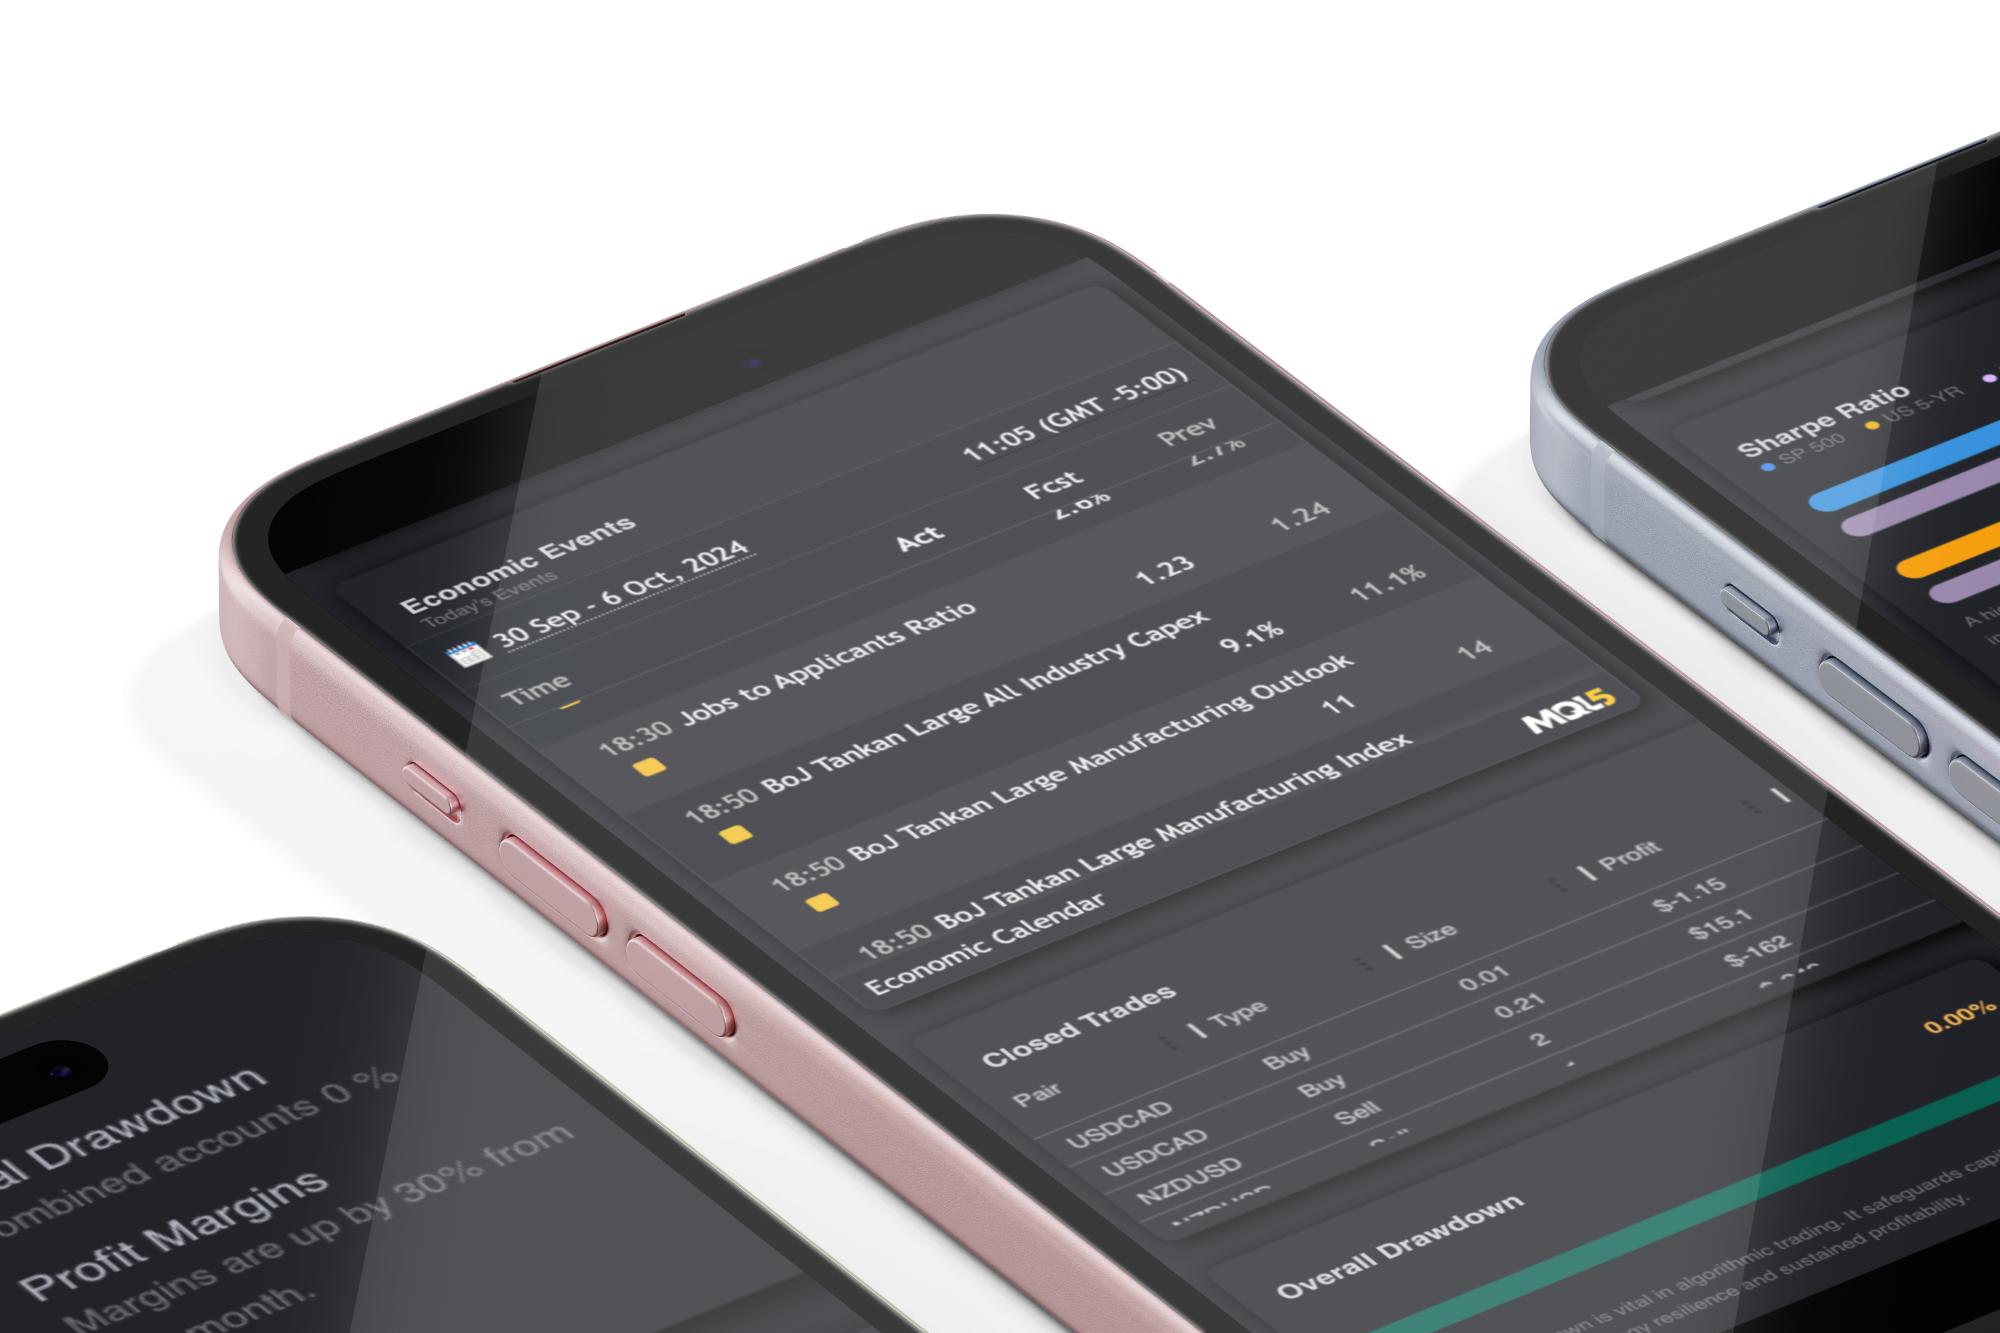
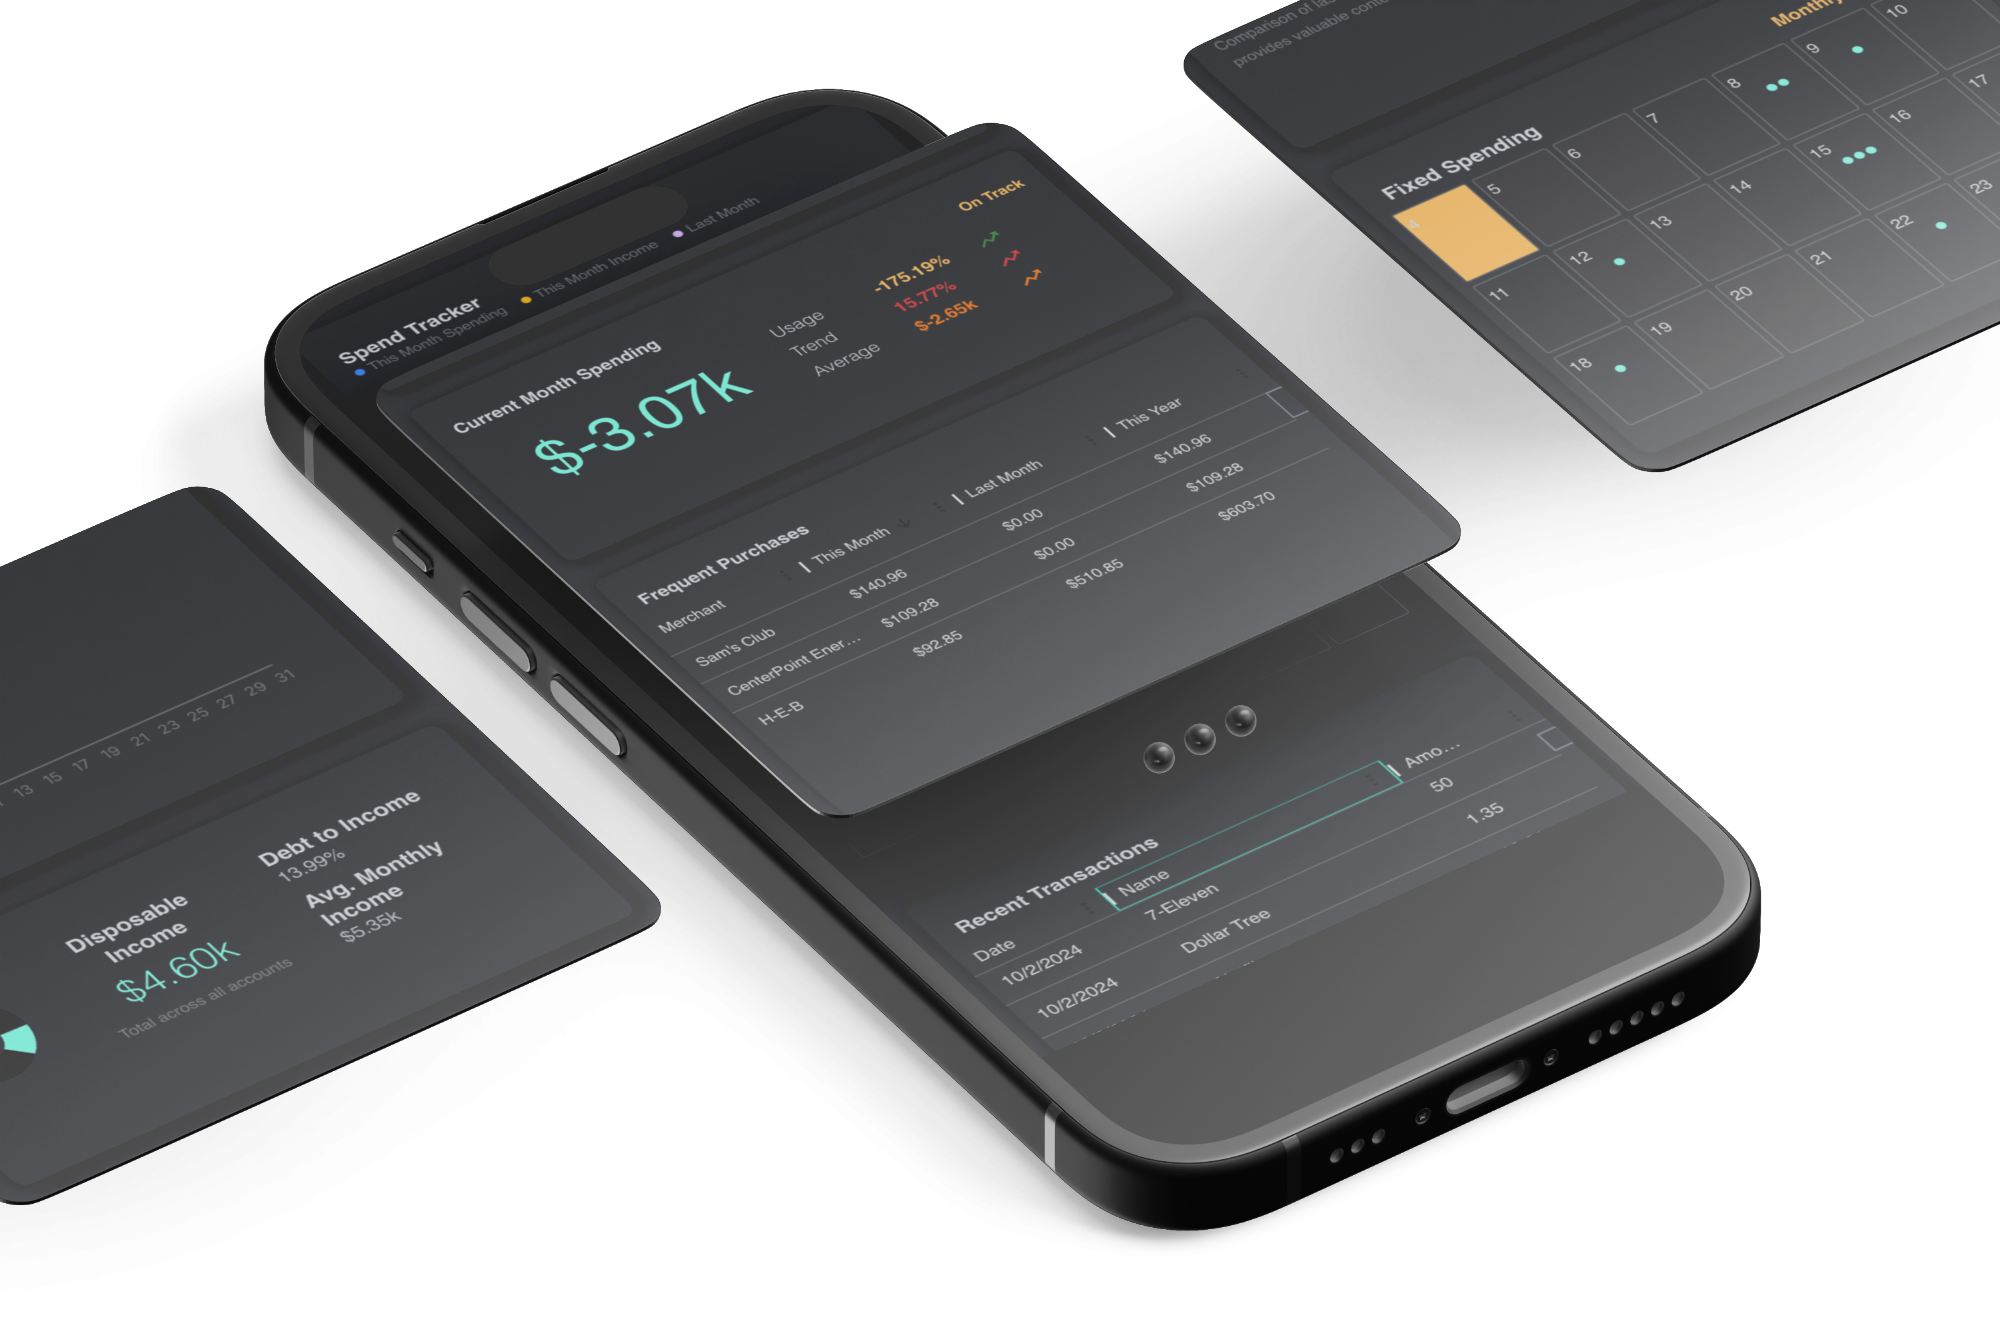
changed to currencaptain branding

diff --git a/src/index.html b/src/index.html
@@ -109,7 +109,7 @@
         </div>
       </div>
       <div class="w-full md:w-1/2 animate__animated animate__fadeInRight h-auto">
-        <img class="w-full h-full max-h-[650px] object-cover mx-auto" src="./images/hero/test6.png" alt="Currency Captain, Wealth Mastery" style="margin: 0; padding: 0;" />
+        <img class="w-full h-full max-h-[600px] object-cover mx-auto" src="./images/hero/tri.png" alt="Currency Captain, Wealth Mastery" style="margin: 0; padding: 0;" />
       </div>
     </div>
   </div>
@@ -360,6 +360,9 @@
           <h5 class="text-black dark:text-white text-sm xl:text-regular font-medium">Smart Budgeting Tools</h5>
         </div>
       </div>
+
+
+
       <div
         class="relative cursor-pointer w-full md:w-auto border-b last:border-0 md:border-0 border-stroke dark:border-strokedark flex items-center gap-4 py-2 xl:py-5 px-6 xl:px-13.5"
         :class="{ 'active before:w-full before:h-1 before:bg-primary before:absolute before:bottom-0 before:left-0 before:rounded-tl-[4px] before:rounded-tr-[4px]': featuresTab === 'tabTwo' }"
@@ -372,6 +375,9 @@
           <h5 class="text-black dark:text-white text-sm xl:text-regular font-medium">Automated Saving Strategies</h5>
         </div>
       </div>
+
+
+
       <div
         class="relative cursor-pointer w-full md:w-auto border-b last:border-0 md:border-0 border-stroke dark:border-strokedark flex items-center gap-4 py-2 xl:py-5 px-6 xl:px-13.5"
         :class="{ 'active before:w-full before:h-1 before:bg-primary before:absolute before:bottom-0 before:left-0 before:rounded-tl-[4px] before:rounded-tr-[4px]': featuresTab === 'tabThree' }"
@@ -394,7 +400,6 @@
           <div class="md:w-1/2">
             <h2 class="text-black dark:text-white text-3xl xl:text-sectiontitle2 font-bold mb-7">Smart Budgeting Tools</h2>
             <p class="mb-5">Easily manage your budget with user-friendly tools that help you categorize expenses, set savings goals, and stay on track with your financial plan.</p>
-            <p class="w-11/12">Gain insights into your spending habits to make informed decisions about your finances.</p>
           </div>
           <div class="block md:w-1/2">
             <img src="./images/hero/test.png" alt="Features" class="block" />
@@ -407,10 +412,9 @@
           <div class="md:w-1/2">
             <h2 class="text-black dark:text-white text-3xl xl:text-sectiontitle2 font-bold mb-7">Automated Saving Strategies</h2>
             <p class="mb-5">Set up automatic transfers to your savings goals, ensuring you save consistently without thinking about it.</p>
-            <p class="w-11/12">Tailor your savings plan to fit your unique financial situation and objectives.</p>
           </div>
           <div class="block md:w-1/2">
-            <img src="./images/hero/floating.png" alt="Features" class="block" />
+            <img src="./images/hero/multi.png" alt="Features" class="block" />
           </div>
         </div>
       </div>
@@ -420,10 +424,9 @@
           <div class="md:w-1/2">
             <h2 class="text-black dark:text-white text-3xl xl:text-sectiontitle2 font-bold mb-7">Investment Tracking</h2>
             <p class="mb-5">Monitor your investments in real time, track performance, and adjust your strategy as needed.</p>
-            <p class="w-11/12">Get a clear overview of your investment portfolio and understand your returns effortlessly.</p>
           </div>
           <div class="block md:w-1/2">
-            <img src="./images/hero/tri.png" alt="Features" class="block" />
+            <img src="./images/hero/econ.png" alt="Features" class="block" />
           </div>
         </div>
       </div>
@@ -706,8 +709,8 @@
       <div
         class="animate_top md:w-[45%] lg:w-1/3 group relative bg-white dark:bg-blacksection rounded-lg shadow-solid-10 dark:shadow-none border border-stroke dark:border-strokedark p-7.5 xl:p-12.5"
       >
-        <h3 class="text-black dark:text-white font-bold text-3xl xl:text-sectiontitle3 mb-7.5">$4.99 / Mo <span class="text-regular text-waterloo dark:text-manatee"> </span></h3>
-        <h4 class="text-black dark:text-white font-medium text-para2 mb-2.5">60 days free Early Access</h4>
+        <h3 class="text-black dark:text-white font-bold text-3xl xl:text-sectiontitle3 mb-7.5">Free <span class="text-regular text-waterloo dark:text-manatee"> </span></h3>
+        <h4 class="text-black dark:text-white font-medium text-para2 mb-2.5">Early Access until Jan. 2025</h4>
         <p>Join our early access program to unlock powerful tools for your wealth journey.</p>
 
         <div class="border-t border-stroke dark:border-strokedark mt-9 pt-9 pb-12.5">
